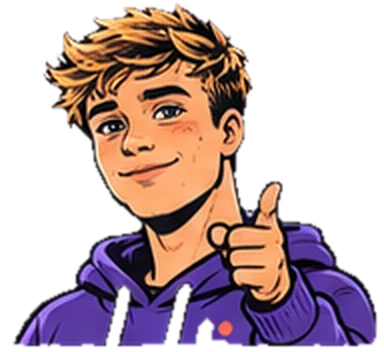
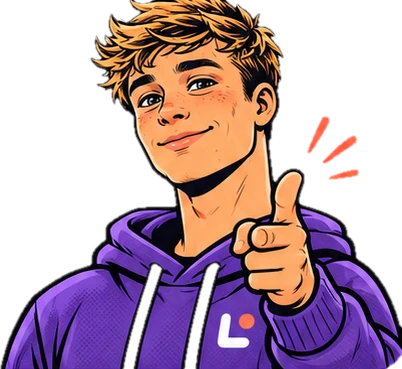
Mascottes: grotere afbeeldingen en betere plaatsing
Claude-Session: https://claude.ai/code/session_01D6Kv8fnwp3mubBsuZKkJ7S

diff --git a/index.html b/index.html
@@ -110,20 +110,17 @@ svg{display:block}
 
 
 /* mascottes */
-.mc{display:block;height:auto;user-select:none;-webkit-user-drag:none;pointer-events:none}
-.buddy{position:absolute;right:30px;bottom:0;z-index:3;display:flex;flex-direction:column;align-items:center;pointer-events:none}
+.mc{display:block;width:auto;max-width:none;user-select:none;-webkit-user-drag:none;pointer-events:none}
 .hero .stack{display:none}
-.buddy{right:56px}
-.buddy-img{width:270px}
+.buddy{position:absolute;right:48px;bottom:0;z-index:3;display:flex;flex-direction:column;align-items:center;pointer-events:none}
+.buddy-img{height:270px}
 .bub{position:relative;background:var(--surface);border:1px solid var(--line);border-radius:18px;padding:9px 14px;font-weight:800;font-size:14px;color:var(--ink);box-shadow:var(--sh);margin-bottom:10px;max-width:190px;text-align:center}
 .bub::after{content:"";position:absolute;left:50%;bottom:-7px;width:12px;height:12px;background:var(--surface);border-right:1px solid var(--line);border-bottom:1px solid var(--line);transform:translateX(-50%) rotate(45deg)}
-.fb-box{position:relative}
-.fb-mc{float:right;width:84px;margin:-14px -8px -14px 12px}
-.fb-box::after{content:"";display:block;clear:both}
-.res-mc{width:170px;margin:-6px auto -2px}
-.lm-mc{width:84px;flex:none;margin:-8px 4px -10px -6px}
-.lm-t{flex:1;min-width:0}
-@media(max-width:760px){.buddy{position:relative;right:auto;bottom:auto;margin:0 auto -10px}.buddy-img{width:190px}.fb-mc{width:68px}.res-mc{width:140px}}
+.fb-box{position:relative;min-height:92px;padding-right:170px}
+.fb-mc{position:absolute;right:20px;bottom:0;height:118px}
+.res-mc{height:170px;margin:-6px auto -4px}
+.lm-mc{height:78px;flex:none;margin:-8px 2px -10px -4px}
+@media(max-width:760px){.buddy{position:relative;right:auto;bottom:auto;margin:0 auto -10px}.buddy-img{height:230px}.fb-box{padding-right:112px;min-height:84px}.fb-mc{height:92px;right:14px}.res-mc{height:150px}.lm-mc{height:64px}}
 
 /* hero */
 .hero{position:relative;display:grid;grid-template-columns:minmax(0,1.1fr) minmax(0,.9fr);gap:24px;align-items:center;border:1px solid var(--line);border-radius:32px;padding:44px 48px;margin-bottom:34px;overflow:hidden;background:
